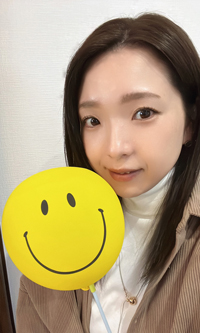
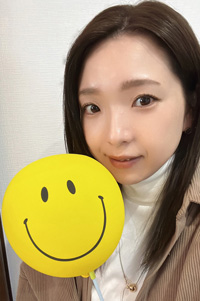
Add files via upload

diff --git a/pf/style.css b/pf/style.css
@@ -177,14 +177,13 @@ header {
 .pr img {
  position: absolute;
  top: 15px;
- width: 210px;
- height: 250px;
  border: 5px solid #fff;
  box-shadow: 0 0 8px #999;
 }
 
 ul {
-  margin-left: 230px;
+ margin-top: 50px;
+ margin-left: 230px;
  font-family: 'Yomogi' , 'HG丸ゴシックM-PRO' , sans-serif ;
  font-weight: bold;
  font-size: 18px;
@@ -203,16 +202,21 @@ li {
   height: 1000px;
 }
 
+.check {
+  position: absolute;
+  top: 120px;
+}
+
 .check02 {
   position: absolute;
-  top: 25px;
+  top: 55px;
   left: 380px;
   width: 200px;
 }
 
 .title {
  position: absolute;
- top: 50px;
+ top: 80px;
  left: 390px;
  font-family: 'Darumadrop One', 'HG丸ゴシックM-PRO' , sans-serif ;
  font-size: 60px;
@@ -224,7 +228,7 @@ li {
 
 .kamera {
   position: absolute;
-  top: 65px;
+  top: 90px;
   right: 330px;
   width: 150px;
   height: 160px;
@@ -234,7 +238,7 @@ li {
 #dog {
   display: flex;
   position: absolute;
-  top: 250px;
+  top: 280px;
   left: 210px;
 }
 
@@ -254,7 +258,7 @@ li {
 #fish {
   display: flex;
   position: absolute;
-  top: 530px;
+  top: 580px;
   right: 110px;
 }
 .fish img {
@@ -273,7 +277,7 @@ li {
 #flower {
   display: flex;
   position: absolute;
-  top: 830px;
+  top: 870px;
   left: 160px;
 }
 
@@ -299,7 +303,7 @@ li {
 
 .label02 img {
  position: absolute;
- top: 50px;
+ top: 65px;
  left: 360px;
 }     
           
@@ -453,8 +457,3 @@ h2 {
  left: 450px;
  font-size: 8px;
 }
-
-
-
-
-
